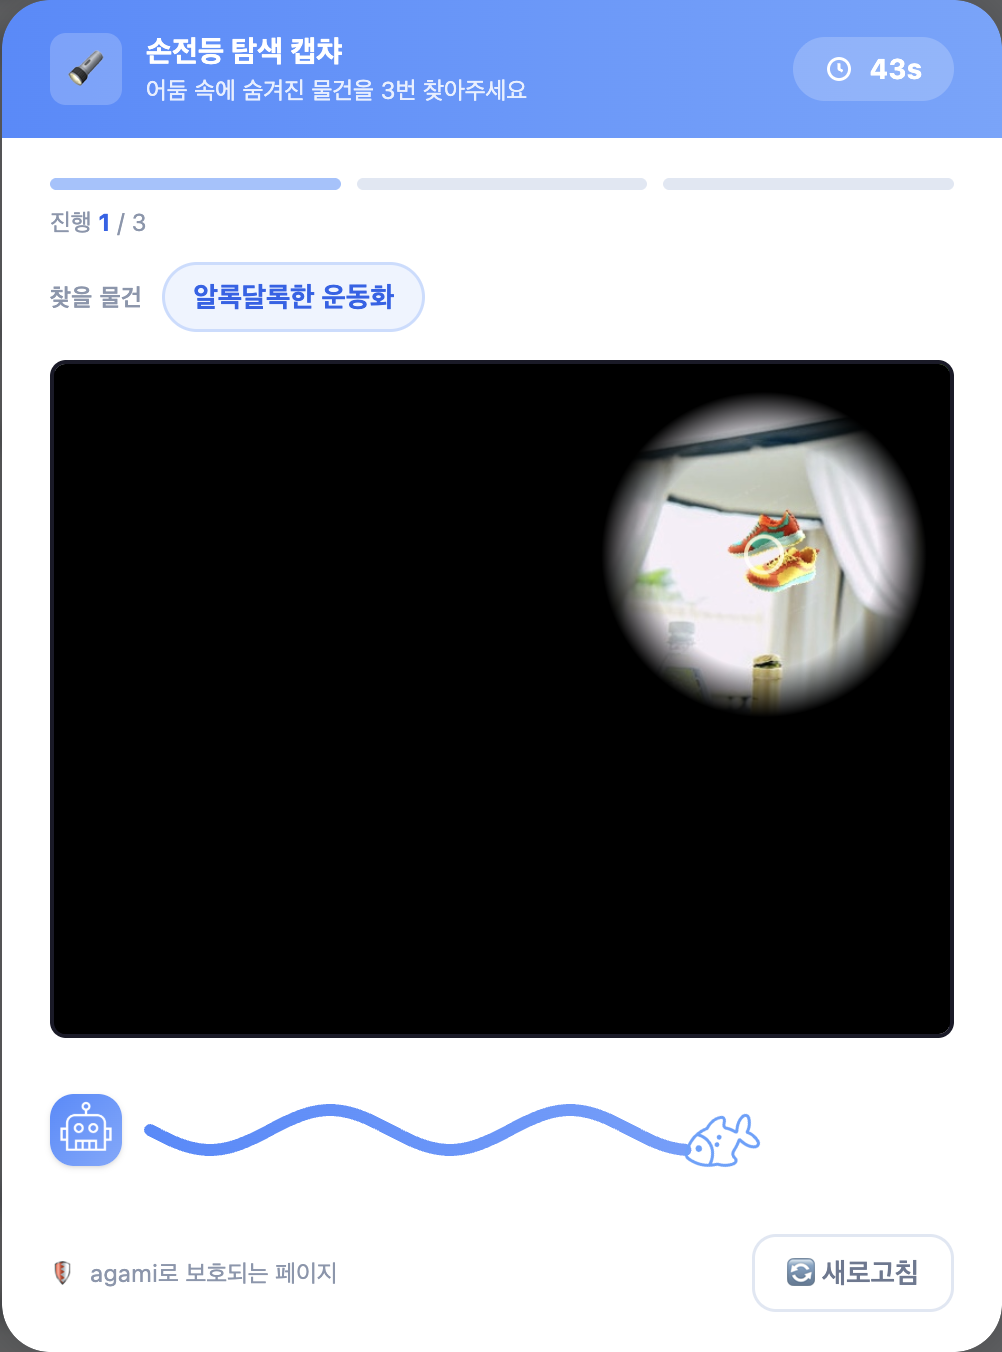
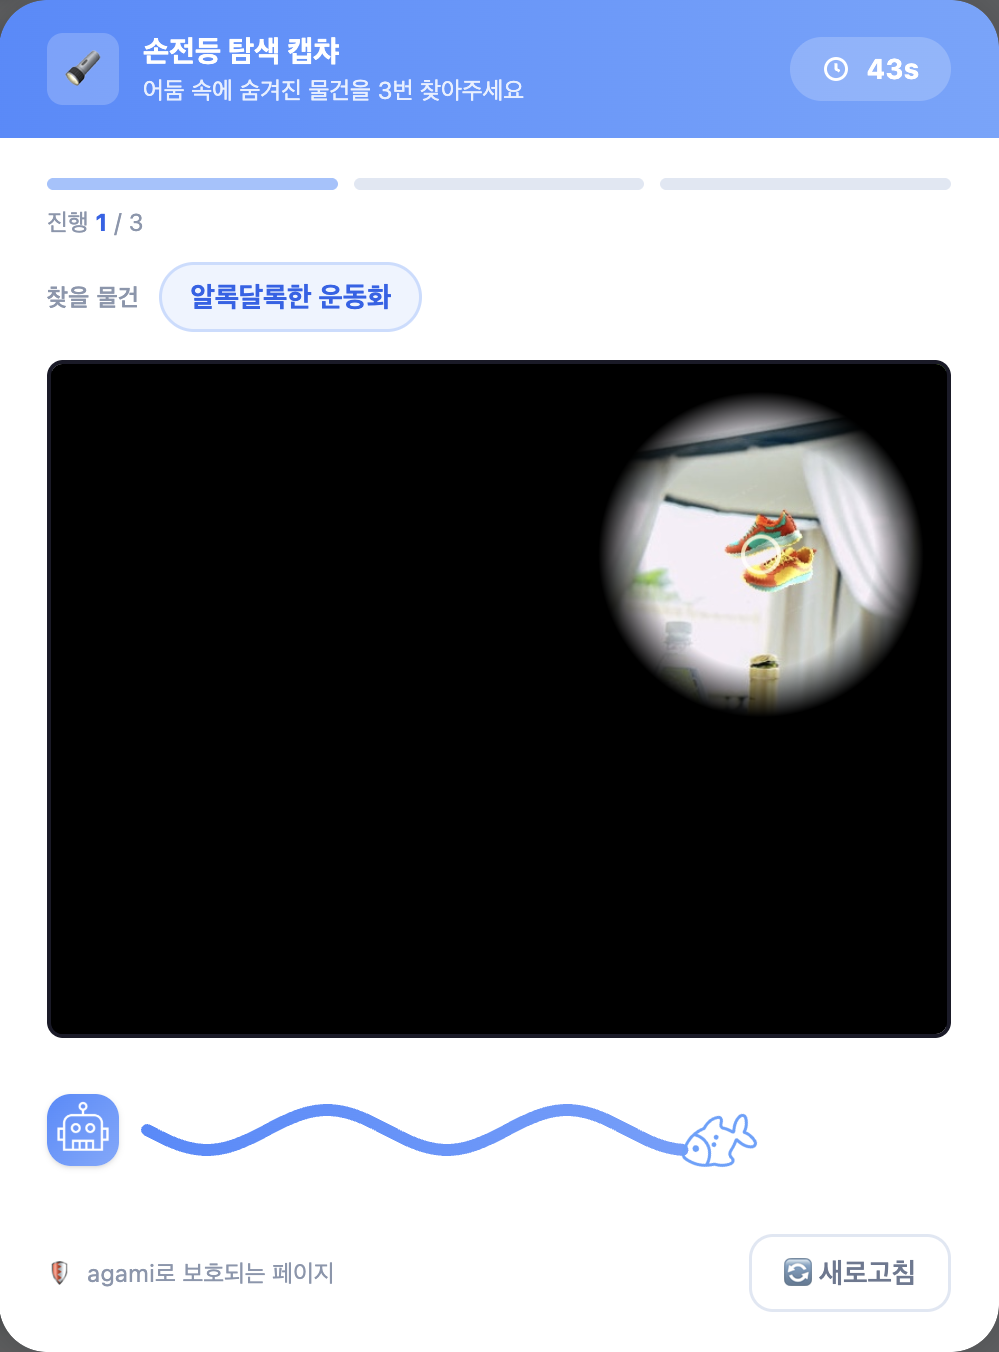
이미지 수정

diff --git a/Develop/Frontend/src/pages/Intro/Intro.css b/Develop/Frontend/src/pages/Intro/Intro.css
@@ -194,7 +194,7 @@ body.dark-mode .content-desc {
   width: 100%;
   height: 400px;
   background: #ffffff;
-  border-radius: 30px;
+  border-radius: 16px;
   display: flex;
   align-items: center;
   justify-content: center;

diff --git a/Develop/Frontend/src/pages/Intro/Intro.jsx b/Develop/Frontend/src/pages/Intro/Intro.jsx
@@ -192,7 +192,7 @@ const Intro = () => {
                       width: '100%', 
                       maxWidth: '600px', /* 모바일 세로형 UI 캡처이므로 최대폭을 살짝 제한하여 예쁘게 배치 */
                       height: 'auto', 
-                      borderRadius: '24px', 
+                      borderRadius: '35px', 
                       border: '1px solid #e0e7f3', 
                       boxShadow: '0 10px 30px rgba(0,0,0,0.08)' 
                     }} 